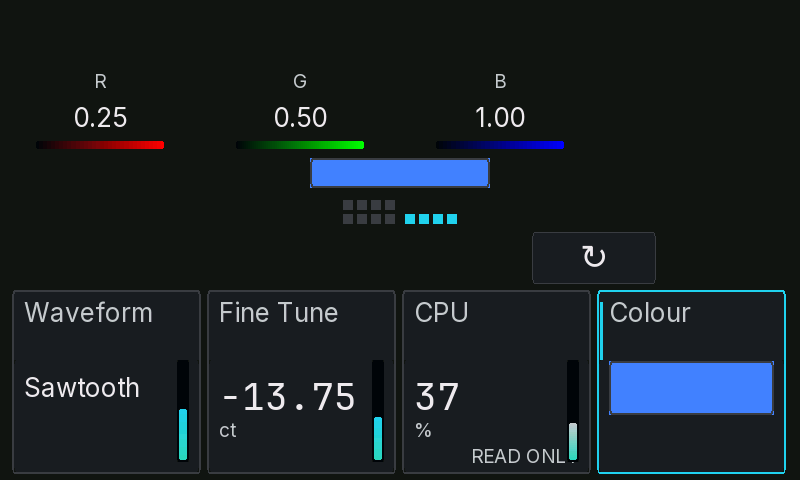
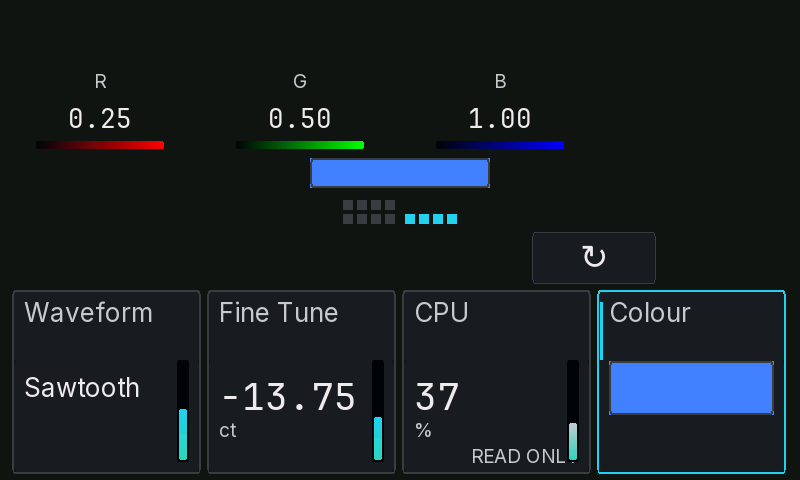
Keep RGB channel readouts monospaced in the focused editor

Changed region(s): [[0.3125, 0.2188, 0.4375, 0.2812], [0.5938, 0.2188, 0.6875, 0.2812], [0.0625, 0.2188, 0.1562, 0.2812]]

diff --git a/src/app/ui.c b/src/app/ui.c
@@ -1143,7 +1143,7 @@ static void render_color_drilled(const surf_field_t *f, int16_t y)
         gfx_rect_t ramp={KNOB_CX(i)-64,y+72,128,8};
         gfx_paint(ramp,(gfx_paint_t){C_TRACK,channel[i],ramp,1},2);
         text_draw_centred(&font_small, KNOB_CX(i), y, name[i], C_TITLE, C_BG);
-        text_draw_centred(&font_ui, KNOB_CX(i), (int16_t)(y + 32), value, C_VALUE, C_BG);
+        text_draw_centred(&font_compact, KNOB_CX(i), (int16_t)(y + 32), value, C_VALUE, C_BG);
     }
     int16_t sw = 180, sh = 30;
     int16_t sx = (int16_t)((LCD_WIDTH - sw) / 2);
